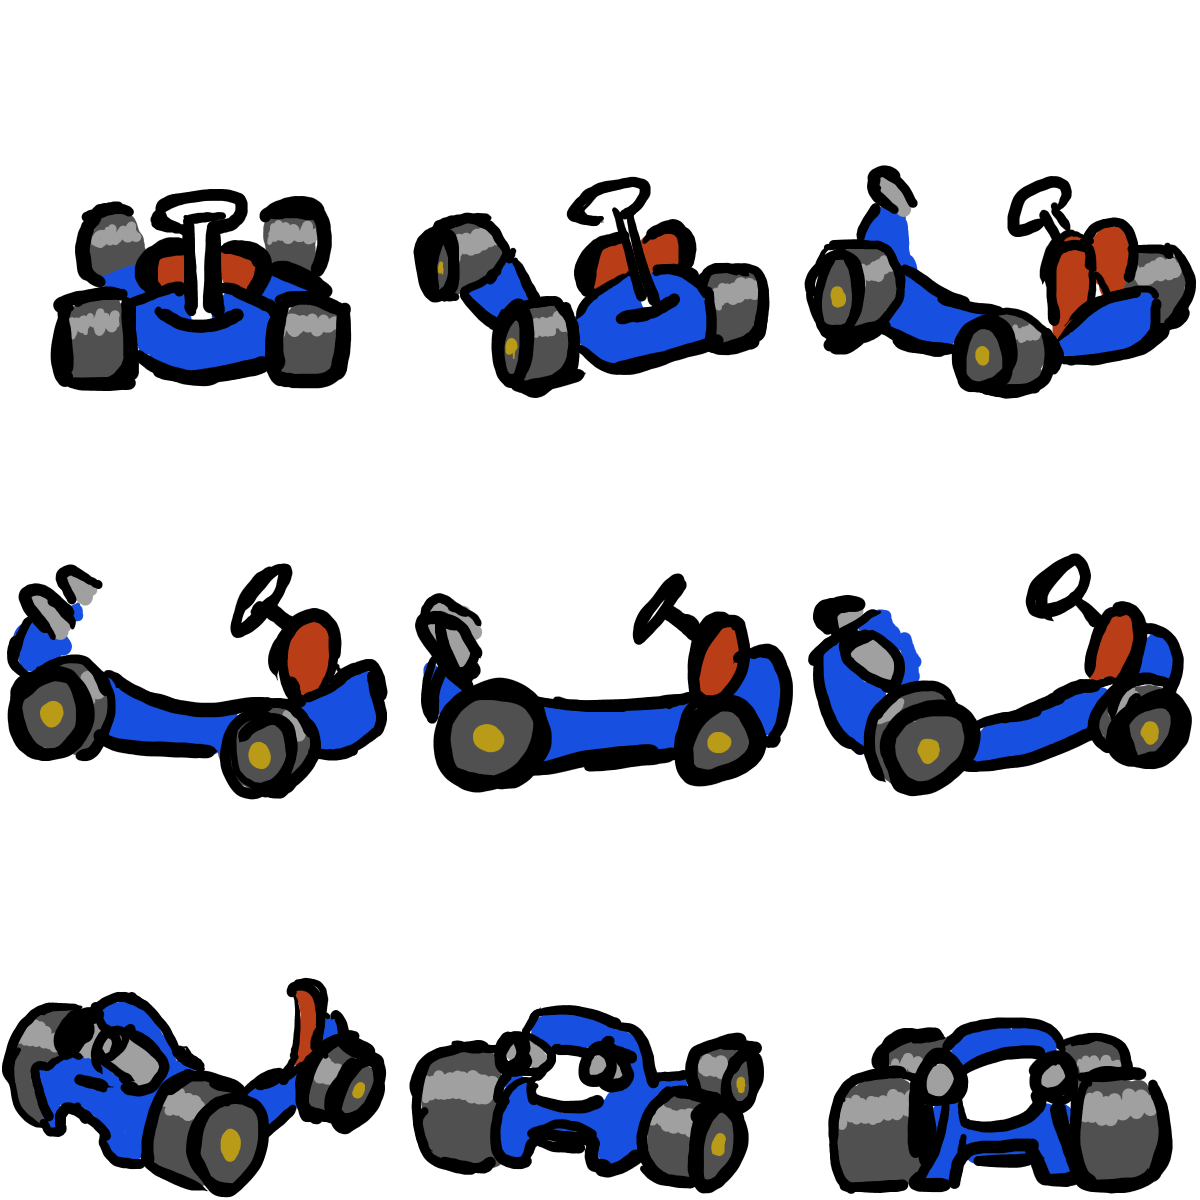
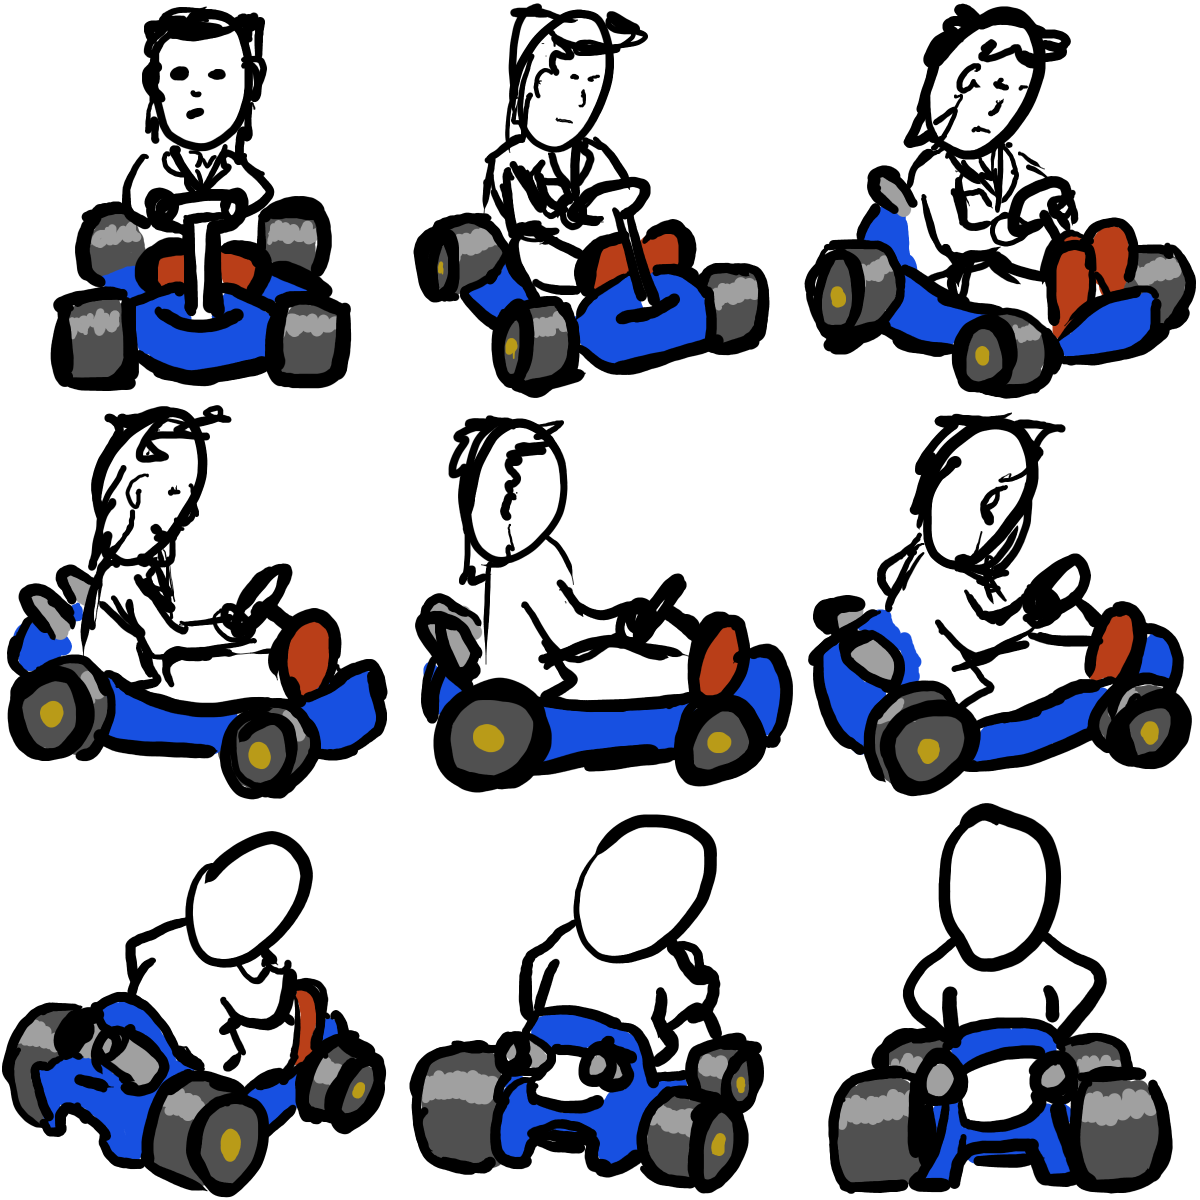
background in, looking really nice

diff --git a/main.js b/main.js
@@ -9,20 +9,27 @@ import { parliamentPolygon, simpleParliament } from './js/track.js';
 // drawPolygon(scene, dilate(parliamentPolygon, 20));
 // drawPolygon(scene, dilate(parliamentPolygon, 0.5));
 
+console.log('Stats for the racers:');
+karts.forEach(k => console.log(
+	k.character.name, k.isPlayer ? 'is player' : {
+		pref_dist: round(k.preferredDistance),
+		look_ahead: round(k.lookAheadDistance),
+		pref_spd2: round(k.preferredSpeedSquared),
+		corner_spd2: round(k.preferredCorneringSpeedSquared),
+		steer: round(k.steeriness)
+	}));
+
 setInterval(() => {
-	document.getElementById('placing-list').innerHTML = '<li>'
-		+ karts.map(k => ({
+	document.getElementById('placing-list').innerHTML =
+		karts.map(k => ({
 			pos: k.lastTheta + k.laps - k.unlaps,
-			name: k.isPlayer ? 'Player'
-				: `AI (PD: ${ round(k.preferredDistance) },
-					LA: ${ round(k.lookAheadDistance) },
-					PS: ${ round(k.preferredSpeedSquared) },
-					CS: ${ round(k.preferredCorneringSpeedSquared) },
-					SN: ${ round(k.steeriness) })`
+			name: k.character.name,
+			isPlayer: k.isPlayer
 		})).sort((a, b) => b.pos - a.pos)
-			.map(k => `${ k.name } @ ${ round(k.pos) }`)
-			.join('</li><li>')
-		+ '</li>';
+			.map(k => `<li class="${ k.isPlayer ? 'player' : 'ai' }">
+					${ k.name }<br />${ Math.max(round(k.pos), 0) } laps
+				</li>`)
+			.join('');
 }, 1000);
 
 function round(n) {

diff --git a/js/init.js b/js/init.js
@@ -39,12 +39,20 @@ document.addEventListener('DOMContentLoaded', () => {
 	floorTexture.repeat.set(600, 600);
 	const floor = new THREE.Mesh(
 		new THREE.PlaneGeometry(10000, 10000),
-		new THREE.MeshLambertMaterial({ map: floorTexture }));
+		new THREE.MeshBasicMaterial({ map: floorTexture }));
 	// nudge down slightly so we can draw a track on top easily:
 	floor.position.y = -0.0001;
 	floor.rotation.x = Math.PI / 2;
 	floor.material.side = THREE.DoubleSide;
 	scene.add(floor);
+
+	const panoramaTexture = textureLoader.load('../res/panorama.jpg'),
+		background = new THREE.Mesh(
+			new THREE.CylinderGeometry(300, 300, 160, 30),
+			new THREE.MeshBasicMaterial({ map: panoramaTexture }));
+	background.position.y = 78;
+	background.material.side = THREE.DoubleSide;
+	scene.add(background);
 
 	renderer.setPixelRatio(window.devicePixelRatio);
 	renderer.setSize(window.innerWidth, window.innerHeight);

diff --git a/js/ai.js b/js/ai.js
@@ -12,7 +12,7 @@ export default class Enemy extends Kart {
 	constructor() {
 		super();
 		this.preferredDistance = Math.random() * 15 + 5;
-		this.lookAheadDistance = Math.random() * 20 + 10;
+		this.lookAheadDistance = Math.random() * 15 + 5;
 		this.preferredSpeedSquared = Math.random() * 2.5 + 1;
 		this.preferredCorneringSpeedSquared = Math.random() * 1.5 + 0.8;
 		this.steeriness = Math.random() * 0.6 + 0.2;
@@ -49,6 +49,11 @@ export default class Enemy extends Kart {
 					this.drive = 0;
 					this.brake = brakePower;
 				}
+			}
+			// hack to stop them getting caught on corners
+			if (distance < 2) {
+				this.position.x += left.x;
+				this.position.z += left.y;
 			}
 			// console.log({
 			// 	// distance, desiredDistance: this.preferredDistance,

diff --git a/js/Kart.js b/js/Kart.js
@@ -4,14 +4,23 @@ import {
 	parliamentDistance, parliamentNormal,
 	simpleParliamentDistance, simpleParliamentNormal
 } from './track.js';
+import contenders from './contenders.js';
 
 const coastFriction = 0.8,
 	driftFriction = 0.12,
 	tau = Math.PI * 2;
 
+let nextCharacter = 0;
+
+function currentCharacter() {
+	return contenders[nextCharacter % contenders.length];
+}
+
 export default class Kart extends DirectionalSprite {
 	constructor() {
-		super('res/kart.png', 3, 9);
+		super(`res/${currentCharacter().filename}.png`, 3, 9);
+		this.character = currentCharacter();
+		++nextCharacter;
 		this.setSize(2);
 		this.position.y = 1;
 		this.speed = { x: 0, y: 0 };

diff --git a/js/contenders.js b/js/contenders.js
@@ -1,0 +1,10 @@
+export default [
+	{ name: 'Bojo the Clown', filename: 'boris' },
+	{ name: 'Biker Gove', filename: 'gove' },
+	{ name: 'Savij Jardin', filename: 'sajid' },
+	{ name: 'Hulture Vulture', filename: 'generic' },
+	{ name: 'Raabid Dom', filename: 'generic' },
+	{ name: 'Boring Stewart', filename: 'generic' },
+	{ name: 'Dr Fox', filename: 'generic' },
+	{ name: 'Matt And Cock', filename: 'generic' }
+].sort((a, b) => Math.random() - 0.5);

diff --git a/style.css b/style.css
@@ -51,4 +51,7 @@ body {
 	color: white;
 	font-family: sans-serif;
 	font-weight: bold;
+	font-size: 2vmin;
+	text-shadow: 0 0.1vmin 0.5vmin black;
 }
+#placings li.player { color: #8af; }

diff --git a/README.md b/README.md
@@ -13,3 +13,5 @@ https://sftextures.com/2015/04/27/concrete-road-block-squared-black-and-white-ma
 
 Three.JS https://threejs.org/
 
+background panorama
+https://en.wikipedia.org/wiki/File:Trafalgar_Square_360_Panorama_Cropped_Sky,_London_-_Jun_2009.jpg
